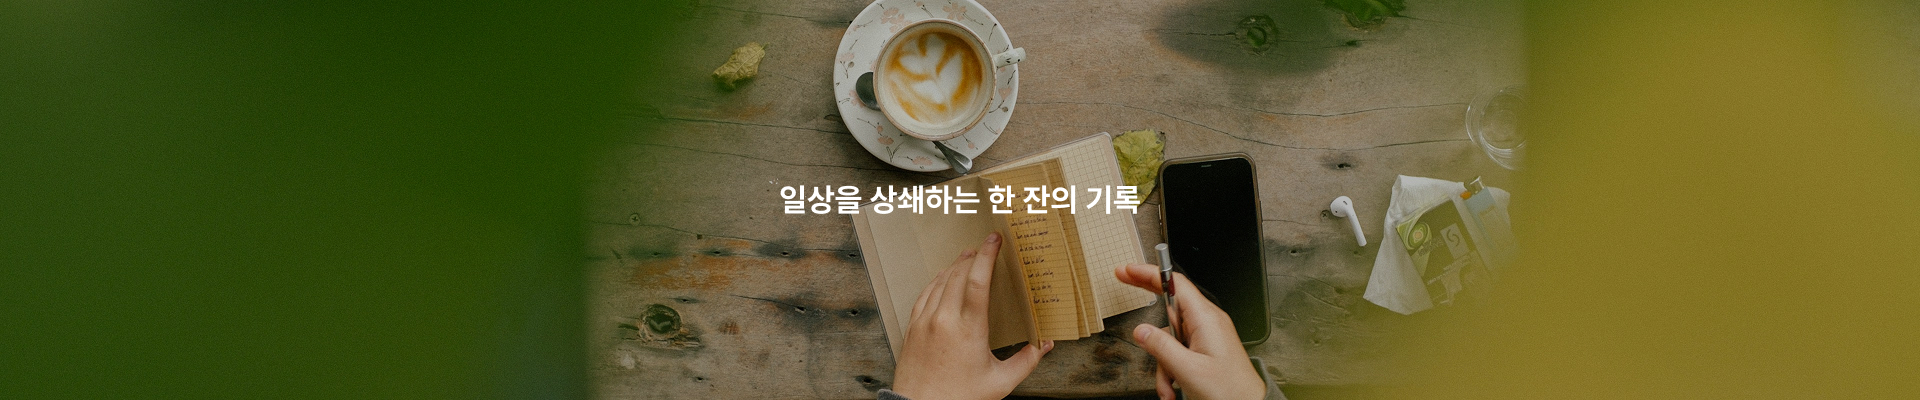
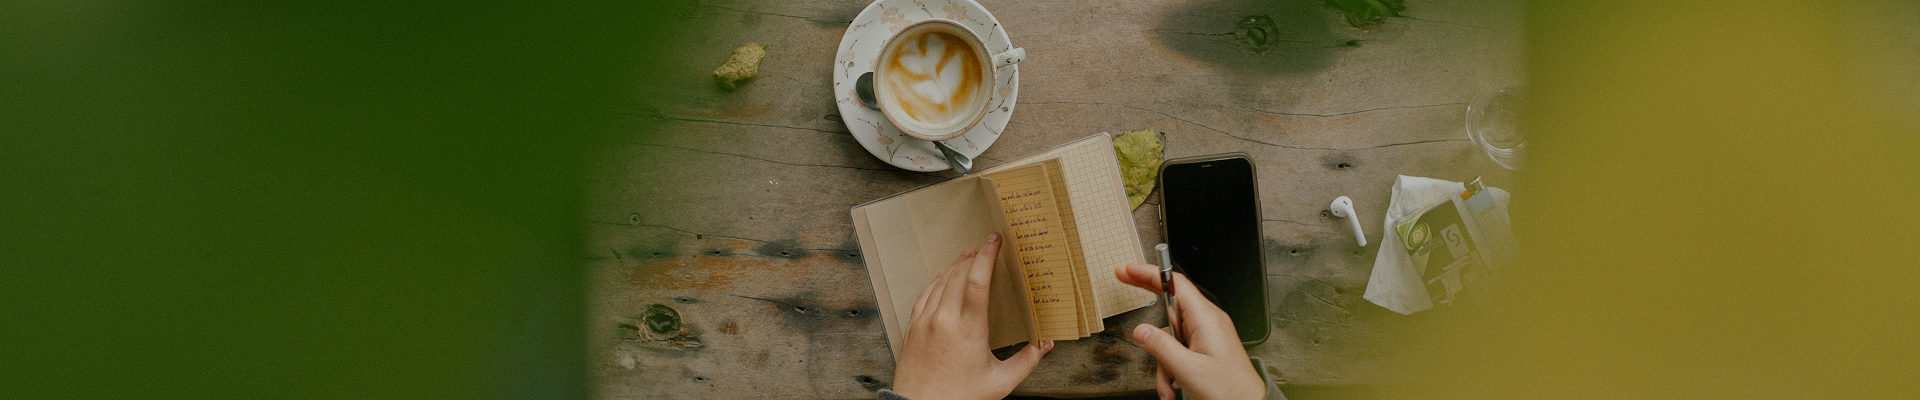
260402 event 페이지 수정2

Changed region(s): [[0.4062, 0.45, 0.5938, 0.54]]

diff --git a/event.html b/event.html
@@ -3,14 +3,14 @@
 <head>
     <meta charset="UTF-8">
     <meta name="viewport" content="width=device-width, initial-scale=1.0">
-    <title>MORVA</title>
+    <title>OFFSET</title>
     <link rel="stylesheet" href="./style/font.css">
     <link rel="stylesheet" href="./style/reset.css">
     <link rel="stylesheet" href="./style/system.css">
     <link rel="stylesheet" href="./style/common.css">
     <link rel="stylesheet" href="./style/header2.css">
     <link rel="stylesheet" href="./style/footer.css">
-    <script src="./script/header.js"></script>
+    <script src="./script/header2.js"></script>
 
     <!-- swiper js -->
     <link rel="stylesheet" href="https://cdn.jsdelivr.net/npm/swiper@12/swiper-bundle.min.css"/>
@@ -24,25 +24,28 @@
     <main>
         <div class="sub-banner">
             <div class="common-frame">
-                <h1>지금 이 순간, 더 맛있고 더 특별하게</h1>
+                <h1>일상을 상쇄하는 한 잔의 기록</h1>
             </div>
         </div>
         <div class="event1">
             <div class="common-frame">
                 <h3>EVENT</h3>
-                <p>부담 없이 즐기는 MORVA의 특별한 혜택</p>
+                <p>비워낼수록 채워지는, OFFSET의 시간</p>
                 <div class="event1-content">
                     <div class="event1-img-slider">
                         <div class="swiper event1-img-swiper">
                             <div class="swiper-wrapper">
                                 <div class="swiper-slide">
-                                    <img src="./img/event-slide1.jpg" alt="1+1 이벤트 아메리카노 한 잔을 주문하면한 잔을 더 드리는 MORVA의 시그니처 혜택">
+                                    <img src="./img/event-slide1.jpg" alt="고객이 직접 찍은 사진을 통해 브랜드의 감성을 확산시키는 SNS 참여 이벤트">
                                 </div>
                                 <div class="swiper-slide">
-                                    <img src="./img/event-slide2.jpg" alt="SNS 팔로우 이벤트 MORVA 공식 인스타그램을 팔로우하면 즉시 사용 가능한 무료 쿠폰 증정">
+                                    <img src="./img/event-slide2.jpg" alt="OFFSET이 큐레이션한 '시그니처 페어링 세트'를 10% 가벼운 가격으로 즐기기">
                                 </div>
                                 <div class="swiper-slide">
-                                    <img src="./img/event-slide3.jpg" alt="타임 이벤트 (해피타임) 오후 2시부터 5시까지아메리카노를 특별가 1,500원에 제공">
+                                    <img src="./img/event-slide3.jpg" alt="평일 오전 11시 이전 방문 고객님께는 모든 음료 주문 시 갓 구운 '미니 마들렌' 한 점을 함께 내어드립니다.">
+                                </div>
+                                 <div class="swiper-slide">
+                                    <img src="./img/event-slide4.jpg" alt="모든 메뉴 상시 할인 혜택과 함께 OFFSET의 철학이 담긴 시그니처 원두 팩을 선물">
                                 </div>
                             </div>
                         </div>
@@ -51,19 +54,19 @@
                         <div class="swiper event1-txt-swiper">
                             <div class="swiper-wrapper">
                                 <div class="swiper-slide">
-                                    <h4>1+1 이벤트</h4>
-                                    <p>아메리카노 한 잔을 주문하면한 잔을 더 드리는 MORVA의 시그니처 혜택</p>
-                                    <p class="b2 fwm">혼자여도 좋고, 함께라면 더 좋은 시간부담 없이 즐기는 커피 한 잔의 여유를 경험해보세요매일 마시는 커피, 이제는 더 가볍게 즐기세요</p>
+                                    <h4>고객 참여 이벤트</h4>
+                                    <p>OFFSET에서 보낸 당신의 휴식을 공유해주세요.</p>
+                                    <p class="b2 fwm">OFFSET 카페 공간이나 메뉴 사진을 필수 해시태그와 함께 인스타그램에 업로드해 주세요.</p>
                                 </div>
                                 <div class="swiper-slide">
-                                    <h4>SNS 팔로우 이벤트</h4>
-                                    <p>MORVA 공식 인스타그램을 팔로우하면 즉시 사용 가능한 무료 쿠폰 증정</p>
-                                    <p class="b2 fwm">MORVA의 신메뉴, 이벤트, 감성 콘텐츠를 가장 먼저 만나보세요. 팔로우 한 번으로 더 많은 혜택을 누릴 수 있습니다. 지금 바로 참여하고 달콤한 커피를 받아가세요</p>
+                                    <h4>인스타그램 기록 이벤트</h4>
+                                    <p>고객이 직접 찍은 사진을 통해 브랜드의 감성을 확산시키는 SNS 참여 이벤트</p>
+                                    <p class="b2 fwm">당신의 시선으로 담아낸 OFFSET의 감성을 공유해 주세요. 공유해 주시는 모든 분의 일상에 OFFSET이 기분 좋은 균형을 더해드릴게요.</p>
                                 </div>
                                 <div class="swiper-slide">
-                                    <h4>텀블러 할인 이벤트</h4>
-                                    <p>개인 텀블러 이용 시 전 메뉴 500원 할인</p>
-                                    <p class="b2 fwm">작은 실천이 만드는 큰 변화 환경을 생각하는 당신에게 MORVA가 전하는 작은 보상입니다. 지구도 지키고, 커피도 더 합리적으로 즐겨보세요</p>
+                                    <h4>얼리버드 베네핏</h4>
+                                    <p>평일 오전 11시 이전 방문 고객님께는 모든 음료 주문 시 갓 구운 '미니 마들렌' 한 점을 함께 내어드립니다.</p>
+                                    <p class="b2 fwm">모두가 서두르는 아침, 당신만의 속도를 찾아보세요.</p>
                                 </div>
                             </div>
                         </div>
@@ -95,32 +98,31 @@
                 <ul class="event-grid">
                     <li>
                         <figure>
-                            <img src="./img/event1.jpg" alt="SNS팔로우 이벤트 MORVA 공식 인스타그램을 팔로우하면 즉시 사용 가능한 무료 쿠폰 증정">
+                            <img src="./img/event1.jpg" alt="고객이 직접 찍은 통해 브랜드의 감성을 확산시키는 SNS 참여 이벤트">
                         </figure>
-                        <h4>SNS 팔로우 이벤트</h4>
-                        <p>MORVA 공식 인스타그램을 팔로우하면 즉시 사용 가능한 무료 쿠폰 증정</p>
-                    </li>
-                    
-                    <li>
-                        <figure>
-                            <img src="./img/event2.jpg" alt="타임 이벤트 (해피타임) 오후 2시부터 5시까지아메리카노를 특별가 1,500원에 제공">
-                        </figure>
-                        <h4>타임 이벤트 (해피타임)</h4>
-                        <p>오후 2시부터 5시까지아메리카노를 특별가 1,500원에 제공</p>
+                        <h4>인스타그램 기록 이벤트</h4>
+                        <p>고객이 직접 찍은 사진을 통해 브랜드의 감성을 확산시키는 SNS 참여 이벤트</p>
                     </li>
                     <li>
                         <figure>
-                            <img src="./img/event3.jpg" alt="신규 회원 이벤트 신규 회원 가입 시 즉시 사용 가능한2,000원 할인 쿠폰 지급">
+                            <img src="./img/event2.jpg" alt="OFFSET이 큐레이션한 '시그니처 페어링 세트'를 10% 가벼운 가격으로 즐기기">
                         </figure>
-                        <h4>신규 회원 이벤트</h4>
-                        <p>신규 회원 가입 시 즉시 사용 가능한2,000원 할인 쿠폰 지급</p>
+                        <h4>시그니처 페어링 할인</h4>
+                        <p>OFFSET이 큐레이션한 '시그니처 페어링 세트'를 10% 가벼운 가격으로 즐기기</p>
                     </li>
                     <li>
                         <figure>
-                            <img src="./img/event4.jpg" alt="텀블러 할인 이벤트 개인 텀블러 이용 시 전 메뉴 500원 할인">
+                            <img src="./img/event3.jpg" alt="평일 오전 11시 이전 방문 고객님께 음료 주문 시 '미니 마들렌' 증정">
                         </figure>
-                        <h4>텀블러 할인 이벤트</h4>
-                        <p>개인 텀블러 이용 시 전 메뉴 500원 할인</p>
+                        <h4>얼리버드 베네핏</h4>
+                        <p>평일 오전 11시 이전 방문 고객님께는 모든 음료 주문 시 갓 구운 '미니 마들렌' 한 점을 함께 내어드립니다.</p>
+                    </li>
+                    <li>
+                        <figure>
+                            <img src="./img/event4.jpg" alt="모든 메뉴 상시 할인 혜택과 함께 OFFSET의 철학이 담긴 시그니처 원두 팩을 선물">
+                        </figure>
+                        <h4>충전식 멤버십</h4>
+                        <p>모든 메뉴 상시 할인 혜택과 함께 OFFSET의 철학이 담긴 시그니처 원두 팩을 선물</p>
                     </li>
                 </ul>
             </div>

diff --git a/style/event.css b/style/event.css
@@ -1,9 +1,9 @@
 .sub-banner{
     height:400px;
-    background: url("../img/sub-banner-event.jpg") no-repeat 50% 50% / cover;
+    background: url("../img/event-sub-banner.jpg") no-repeat 50% 50% / cover;
 }
 .sub-banner .common-frame{
-    display: flex;;
+    display: flex;
     height:100%;
     justify-content: center;
     align-items: center;
